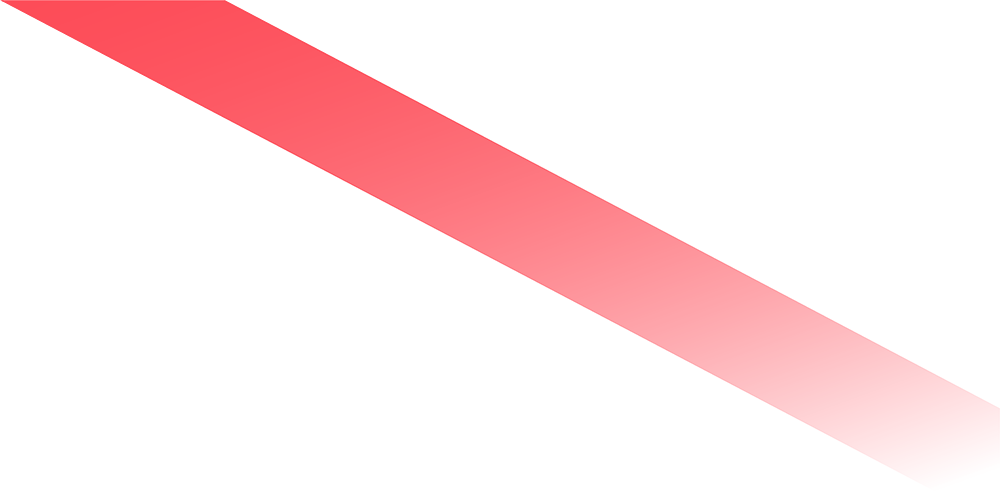
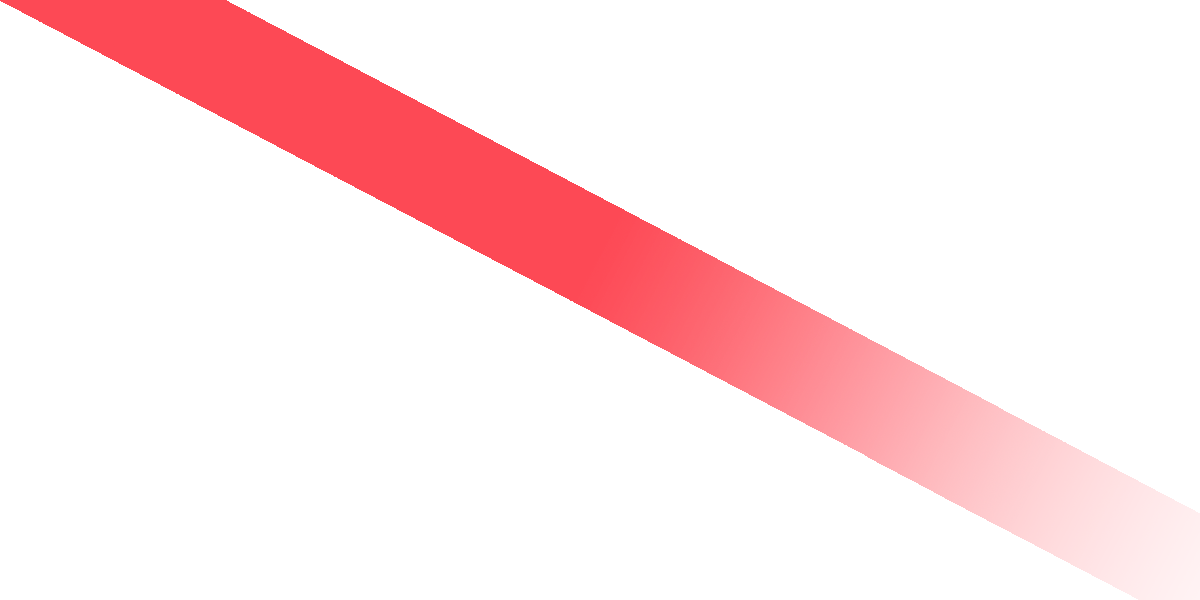
update on site add of bg

diff --git a/app/assets/stylesheets/nhome.scss b/app/assets/stylesheets/nhome.scss
@@ -55,11 +55,6 @@ $total-width:1098px;
     from {
         opacity: 0;
     }
-
-    75% {
-        opacity: 1;
-    }
-
     to {
         opacity: 0.75;
     }
@@ -220,7 +215,7 @@ ul.colorized-green-dark{
         .zone-bottom {
             flex-grow: 1;
             display: flex;
-            align-items: flex-end;
+            align-items: flex-start;
 
             .zone-end {
                 width: 100%;
@@ -257,6 +252,67 @@ ul.colorized-green-dark{
 .zone-end {
     padding: 30px 10px;
 }
+
+
+.zone{
+    .zone-end{
+        position: relative;
+    }
+    .zone-end::after{
+        position: absolute;
+        top:116px;
+        left: 0;
+        width: 600px;
+        text-align: left;
+        z-index: -1;
+        height: 400px;
+        content: ' ';
+    }
+}
+
+.zone1{
+    .zone-end::after{
+        background: url('/assets/bg/bg-order-chat.png') no-repeat;
+        opacity: 0.25;
+    }
+}
+
+.zone2{
+    .zone-end::after{
+        background: url('/assets/bg/bg-zone2-end2.png') no-repeat;
+        opacity: 0.25;
+        background-position: -600px 0;
+        right: 0;
+        left:initial;
+    }
+}
+
+.zone4{
+    .zone-end::after{
+        background: url('/assets/bg/bg-university.png') no-repeat;
+        opacity: 0.25;
+        background-position: -600px 0;
+        right: 0;
+        left:initial;
+    }
+}
+
+.zone7{
+    .zone-end::before{
+        position: absolute;
+        bottom: 116px;
+        left: 0;
+        width: 600px;
+        text-align: left;
+        z-index: -1;
+        height: 400px;
+        content: ' ';        
+        background: url('/assets/bg/bg-contact-us.png') no-repeat;
+        background-position: 0 -200px;
+        opacity: 0.25;
+    }
+}
+
 
 .zone1, .zone7 {
     .zone-end {
@@ -304,6 +360,7 @@ ul.colorized-green-dark{
 .zone3 {
     .section-4 {
         display: flex;
+        justify-content:center;
 
         & > div {
             width: 226px;
@@ -333,14 +390,26 @@ ul.colorized-green-dark{
                 padding: 10px;
                 width: $total-width;
                 text-align: left;
-                // bottom:0;
-                // width: 100%;
-
                 z-index: -1;
-                background-color: red;
                 height: 600px;
                 content: ' ';
+            }
+
+            .bg-red-img::after{
                 background: url('/assets/bg/bg-red.png') no-repeat;
+                width: calc(154px / 2 + 4 * 236px - 20px);
+            }
+            .bg-green-img::after{
+                background: url('/assets/bg/bg-green.png') no-repeat;
+                width: calc(154px / 2 + 226px - 30px)
+            }
+            .bg-cyan-img::after{
+                background: url('/assets/bg/bg-cyan.png') no-repeat;
+                width: calc(154px / 2 + 2 * 226px - 10px)
+            }
+            .bg-green-dark-img::after{
+                background: url('/assets/bg/bg-green-dark.png') no-repeat;
+                width: calc(154px / 2 + 3 * 226px + 10px)
             }
 
 
@@ -453,20 +522,9 @@ ul.bp {
     }
 }
 
-
-.zone1 {
-    .zone-text {
-        .zone-bottom {
-            align-items: stretch;
-        }
-    }
-}
-
-
 .zone7 {
     .zone-text.action-area {
         justify-content: center;
-
         .zone-bottom {
             align-items: flex-start;
             flex-grow: 0;
@@ -660,7 +718,9 @@ div.company{
                 }
 
                 .title::after{
-                    display: none;
+                    // display: none;
+                    top:88px;
+                    opacity: 0.25;
                 }
 
 
@@ -688,11 +748,29 @@ div.company{
     }
 }
 
+.zone7{
+    .inside-zone{
+        text-align: center;
+        width: 100%;
+    }
+}
+
 .zone5 ul.references {
     flex-direction: column;
-
+    margin:0;
+    border:none;
+    margin-bottom: 20px;
+    
+    li:first-child{
+        border-top: 1px solid #efefef;
+    }
     li {
+        height: 105px;
+        padding: 0;
+        margin:0;
+        align-items:center;
         justify-content: center;
+        border-bottom: 1px solid #efefef;
     }
 }
 

diff --git a/app/assets/stylesheets/_variables.scss b/app/assets/stylesheets/_variables.scss
@@ -1,4 +1,5 @@
-$red:#FF003F;
+// $red:#FF003F;
+$red:#B02E3E;
 $cyan:#00CEBF;
 // $green:#9DEA21;
 $green:#A0C51B;
